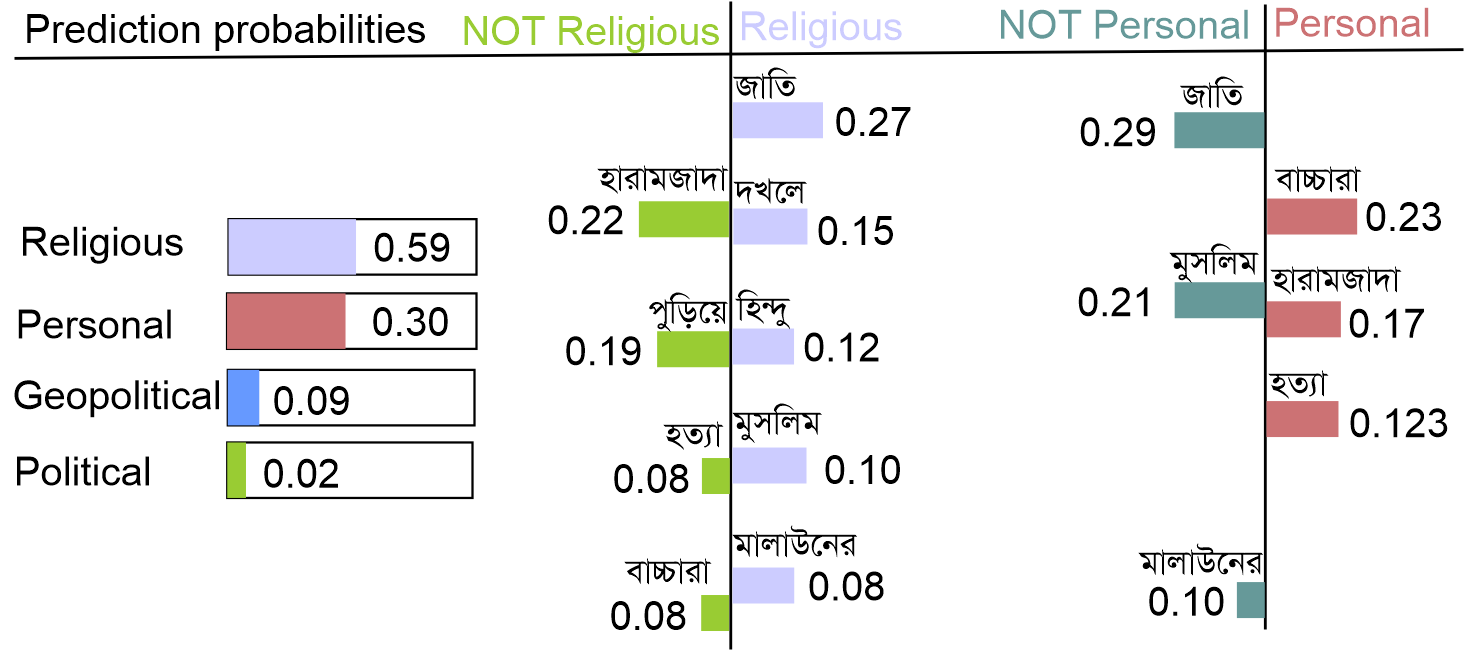
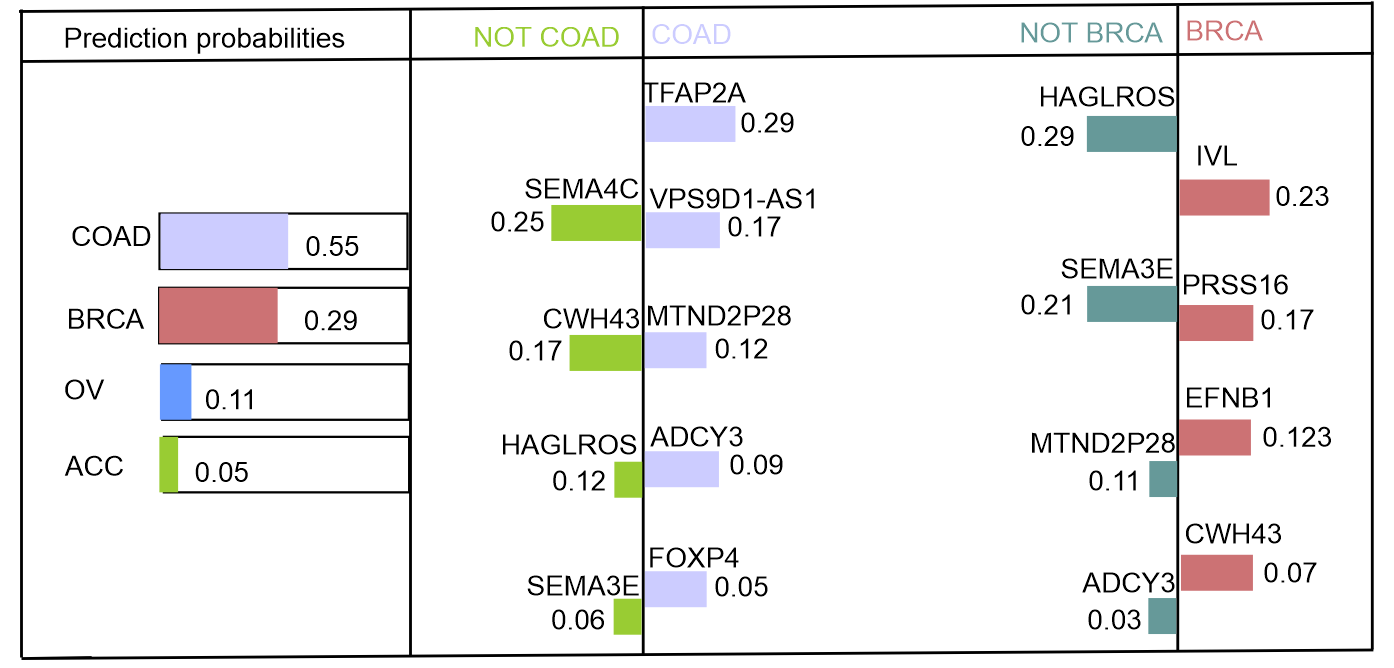
Updates from Overleaf

diff --git a/ExplainablePredictions/ExplainablePredictions.tex b/ExplainablePredictions/ExplainablePredictions.tex
@@ -1208,7 +1208,7 @@ Local feature impact identifies which features have the greatest positive or neg
 \hspace*{3.5mm} Further, to find which patients are similar to the patient being currently diagnosed are identified in \cref{fig:similar_patients}, as indicated by the last row in the table labelled as "Weight". This is a useful way of explaining to end users~(e.g., a patient or for doctor's understanding) that because Profile `A', Profile `B' and Profile `C' had very similar variables to specific row. Therefore, the model predicted a certain outcome. In this case, Profile 0 is 55.76\% similar, Profile 2 is 23.65\% similar, and Profile 4 is 15.26\% similar to the sample or row number 1 that we are trying to explain. Now the end user can comprehend how the model is making its decisions by looking at that patients.  
 
 \subsubsection{Sensitivity analyses: what-if and leave-one-feature-out}
-To quantitatively validate the feature-level relevances, what-if analysis is carried out. As shown in \cref{fig:what_if}, genes TFAP2A, VPS9D1-AS1, MTND2P28, ADCY3, FOXP4, GPRIN1, EFNB1, FABP4, MGP, AC020916-1, CDC7, CHADL, RPL10P6, OASL, and PRSS16 are most sensitive to making changes. 
+To quantitatively validate the feature-level relevances, what-if analysis is carried out. As shown in \cref{fig:what_if}, genes TFAP2A, VPS9D1-AS1, MTND2P28, ADCY3, FOXP4, GPRIN1, EFNB1, FABP4, MGP, AC020916-1, CDC7, CHADL, RPL10P6, OASL, and PRSS16 are most sensitive to making changes. On the other hand, making changes to SEMA4C, CWH43, HAGLROS, SEMA3E, and IVL does not have significant impact on the prediction. 
 
 \begin{figure*}[h]
     \centering
@@ -1220,14 +1220,7 @@ To quantitatively validate the feature-level relevances, what-if analysis is car
 \subsubsection{Leave-one-feature-out analysis}
 Display similar profiles and the extent to which they are similar to the chosen applicant as indicated by the last row in the table below labelled as "Weight". The idea is to improve the greedy backward elimination algorithm by preserving more interactions among terms. First, we randomly select a sample hate statement in test set. For the sample, we generate prediction probabilities for all the classes, followed by explaining word-level relevance for two highest probable classes. 
 
-\hspace*{3.5mm} Let's consider the example in 
-\cref{fig:explain_term_wise_religious_hate}. Words on the right 
-side are positive, while words on the left are negative. Words like %\bn{`জাতি'}, \bn{`দখলে'} , and \bn{`হিন্দু'}  
-are positive for religious class, albeit the most significant word %\bn{`জাতি'}  
-is negative for personal hate category~(where words
-%\bn{`বাচ্চারা'}  and \bn{`হারামজা'}  
-are more important). The word %\bn{`জাতি'}
-has the highest positive score of 0.27 for class religious. Our model predicts this as a religious hate statement too, with the probability of 59\%. 
+\hspace*{3.5mm} Let's pick a random sample from the test set and perform the inferencing. Let's the model predicts the sample of COAD cancer types. As shown in \cref{fig:explain_term_wise_religious_hate}, features on the right side are positive, while features on the left are negative. It turns out that features like TFAP2A,  VPS9D1-AS1, MTND2P28, ADCY3, nad FOXP4 are positive for COAD class, for this single inferencing. The feature TFAP2A has the highest positive score of 0.29 for class COAD. Our model predicts this as a COAD cancer type too, with the probability of 55\%. Besides, the sample could be of BRCA cancer type with a probability of 29\%.  
 
 \begin{figure}[h]
     \vspace{-2mm}
@@ -1238,10 +1231,7 @@ has the highest positive score of 0.27 for class religious. Our model predicts t
 	\vspace{-4mm}
 \end{figure}
 
-\hspace*{3.5mm} However, if we remove word %\bn{`জাতি'} 
-from the text, we would expect the model to predict the label religious with a probability of 32\%~(i.e., 59\% $-$ 27\%). On the other hand, word %\bn{`জাতি'} 
-is negative for class personal hate, albeit words %\bn{`বাচ্চারা'}
-and 'have positive scores of 0.23 and 0.17 for the class personal. These words identified by our approach not only can reveal the relevance of important terms for classifier’s decision, but also signify that removing most relevant terms will impact the prediction decision, accordingly to their relevance value. 
+\hspace*{3.5mm} However, if we remove feature TFAP2A from the patient profile, we would expect the model to predict the label COAD with a probability of 26\%~(i.e., 55\% $-$ 29\%), making the actual prediction to be BRCA cancer type. On the other hand, features IVL, PRSS16, EFNB1, and CWH43 are more important features, having impacts of 0.23, 0.17, 0.123, and 0.07, respectively for the class BRCA. These feature identified by our approach not only can reveal the relevance of important feature for classifier’s decision, but also signify that removing most relevant biomarkers will impact the prediction decision, accordingly to their relevance value. 
 
 %\subsubsection{Similar profiles and summary plot}
 %Display similar profiles and the extent to which they are similar to the chosen applicant as indicated by the last row in the table below labelled as "Weight".
